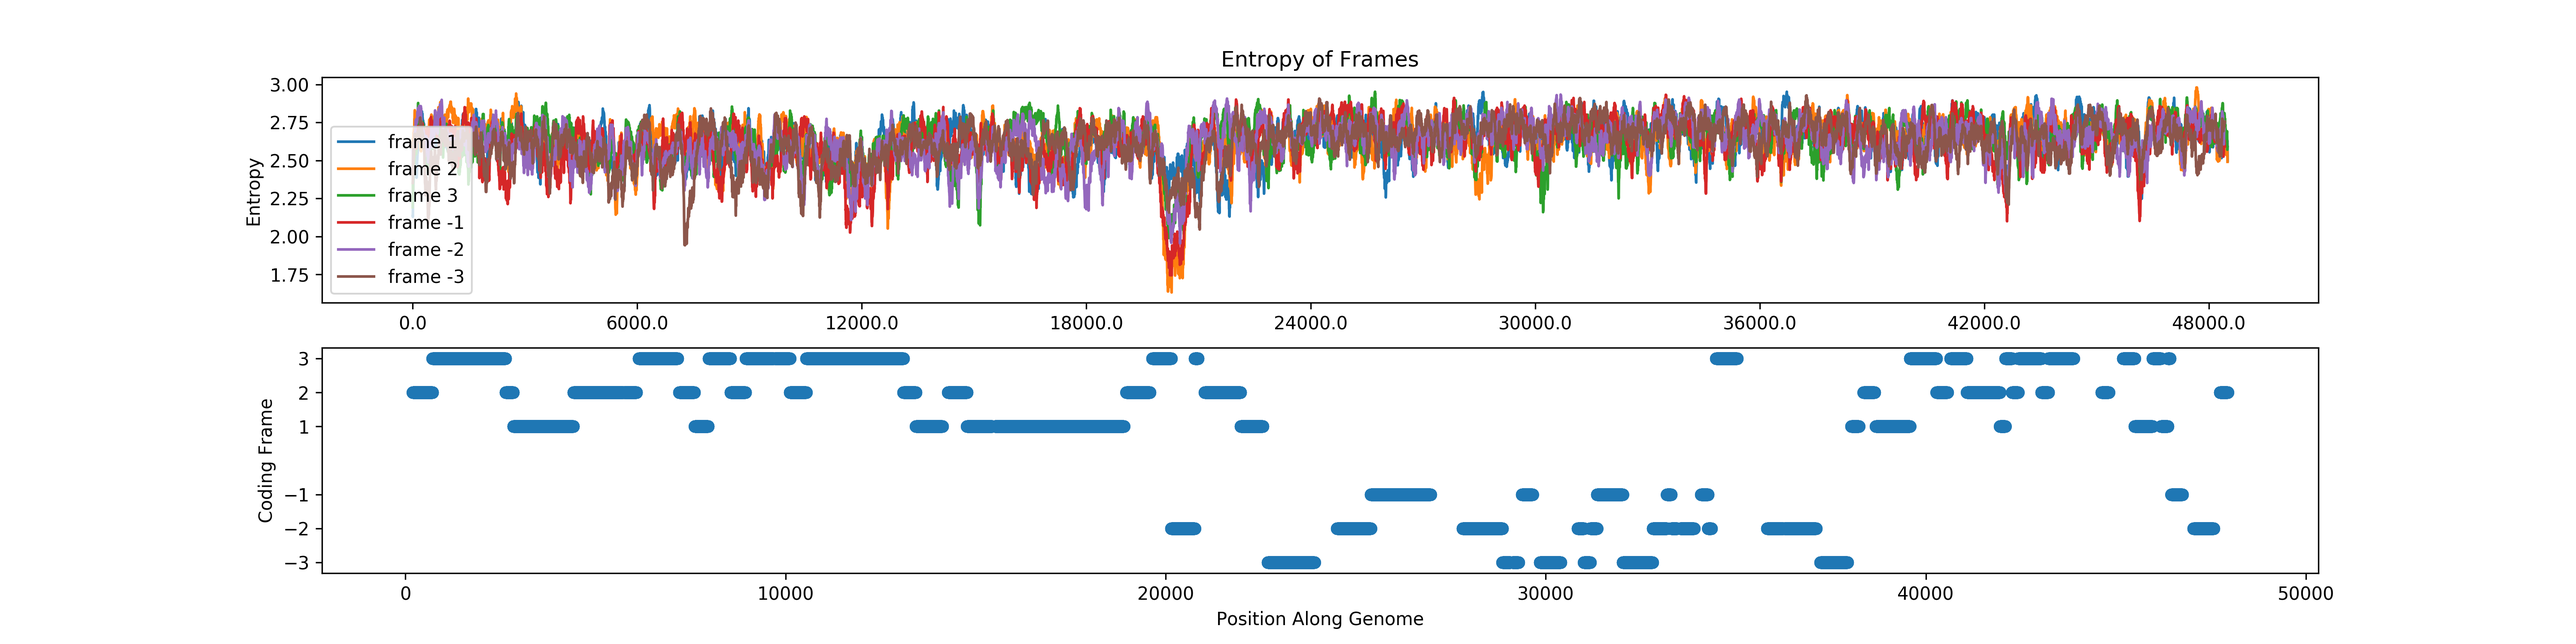
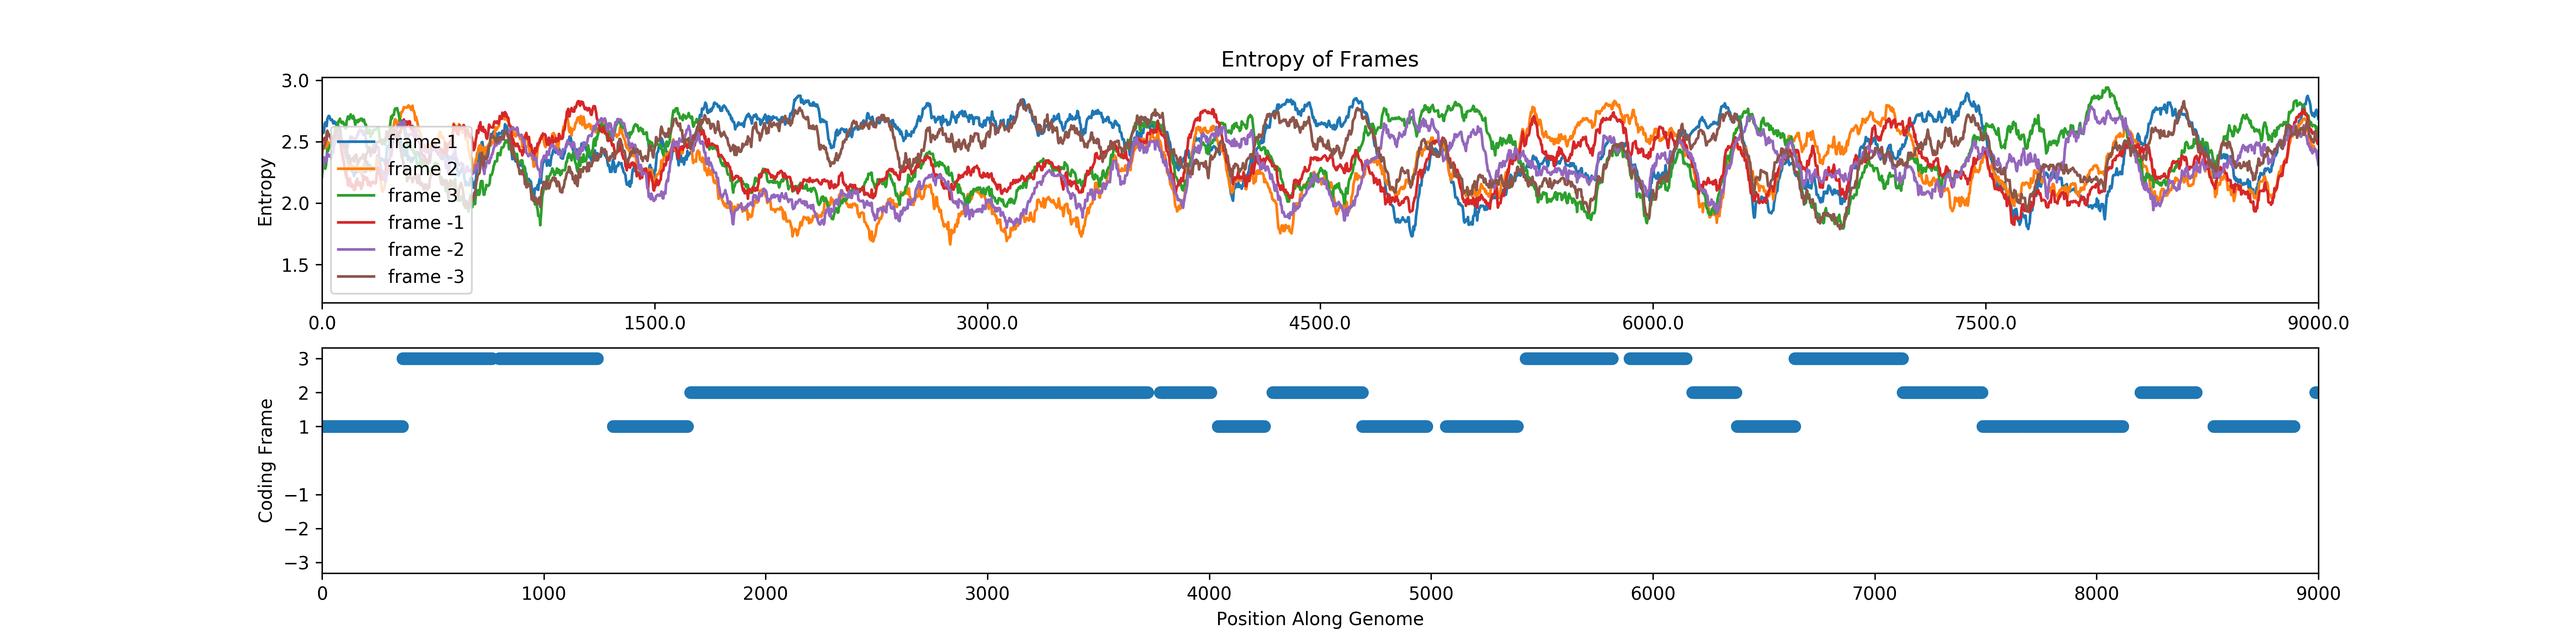
Updated figure

diff --git a/codingframe.py b/codingframe.py
@@ -89,7 +89,7 @@ for id in contig_dict:
 	dna = contig_dict[id].upper()
 	atskew = (dna.count('A') + dna.count('T')) / len(dna)
 	forward_skew = (list(actual_frame.values()).count(1) + list(actual_frame.values()).count(2) + list(actual_frame.values()).count(3)) / len(actual_frame.values())
-	print(atskew, forward_skew, correct / (correct + wrong))
+	print("AT_SKEW:", atskew, "PERCENT_CORRECT:", correct / (correct + wrong))
 	#exit()
 #------------------------------------plotting------------------------------------#
 	#continue
@@ -99,7 +99,7 @@ for id in contig_dict:
 	#ax.plot(ave, label='forward average')
 	for frame in [1,2,3,-1,-2,-3]:
 		ax[0].plot(contig_entropy[frame], label='frame ' + str(frame))
-	#ax[0].set_xlim(0, 1000)
+	ax[0].set_xlim(0, 3000)
 	a = ax[0].get_xticks().tolist()
 	a = [x * 3 for x in a]
 	ax[0].set_xticklabels(a)
@@ -109,7 +109,7 @@ for id in contig_dict:
 
 	ax[1].scatter(list(actual_frame.keys()), list(actual_frame.values()))
 	ax[1].set_yticks([1,2,3,-1,-2,-3])
-	#ax[1].set_xlim(0, 3000)
+	ax[1].set_xlim(0, 9000)
 	#ax[1].title.set_text('Actual Coding Frame')
 	ax[1].set_ylabel('Coding Frame')
 	ax[1].set_xlabel('Position Along Genome')

diff --git a/modules/nucleotide_entropy.py b/modules/nucleotide_entropy.py
@@ -6,8 +6,8 @@ import sys
 import itertools
 import copy
 
+from modules.codon import Codon
 from modules.codon_probability import CodonProbability
-
 
 class NucleotideEntropy(dict):
 	def __init__(self, nucleotides,  window = 150):
